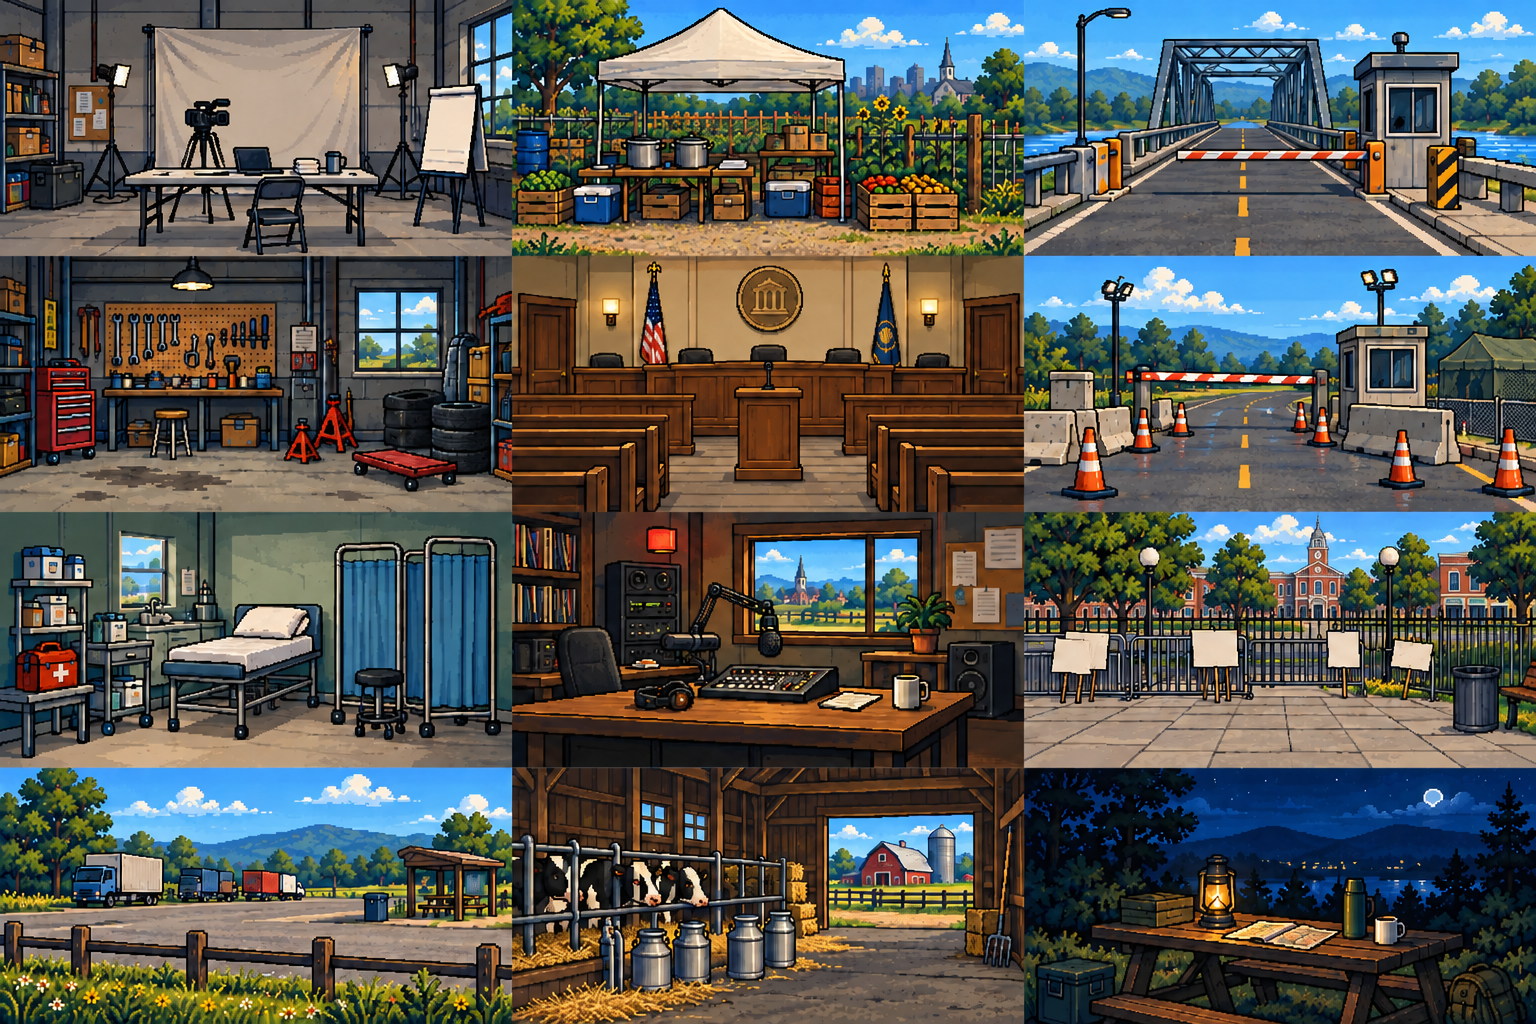
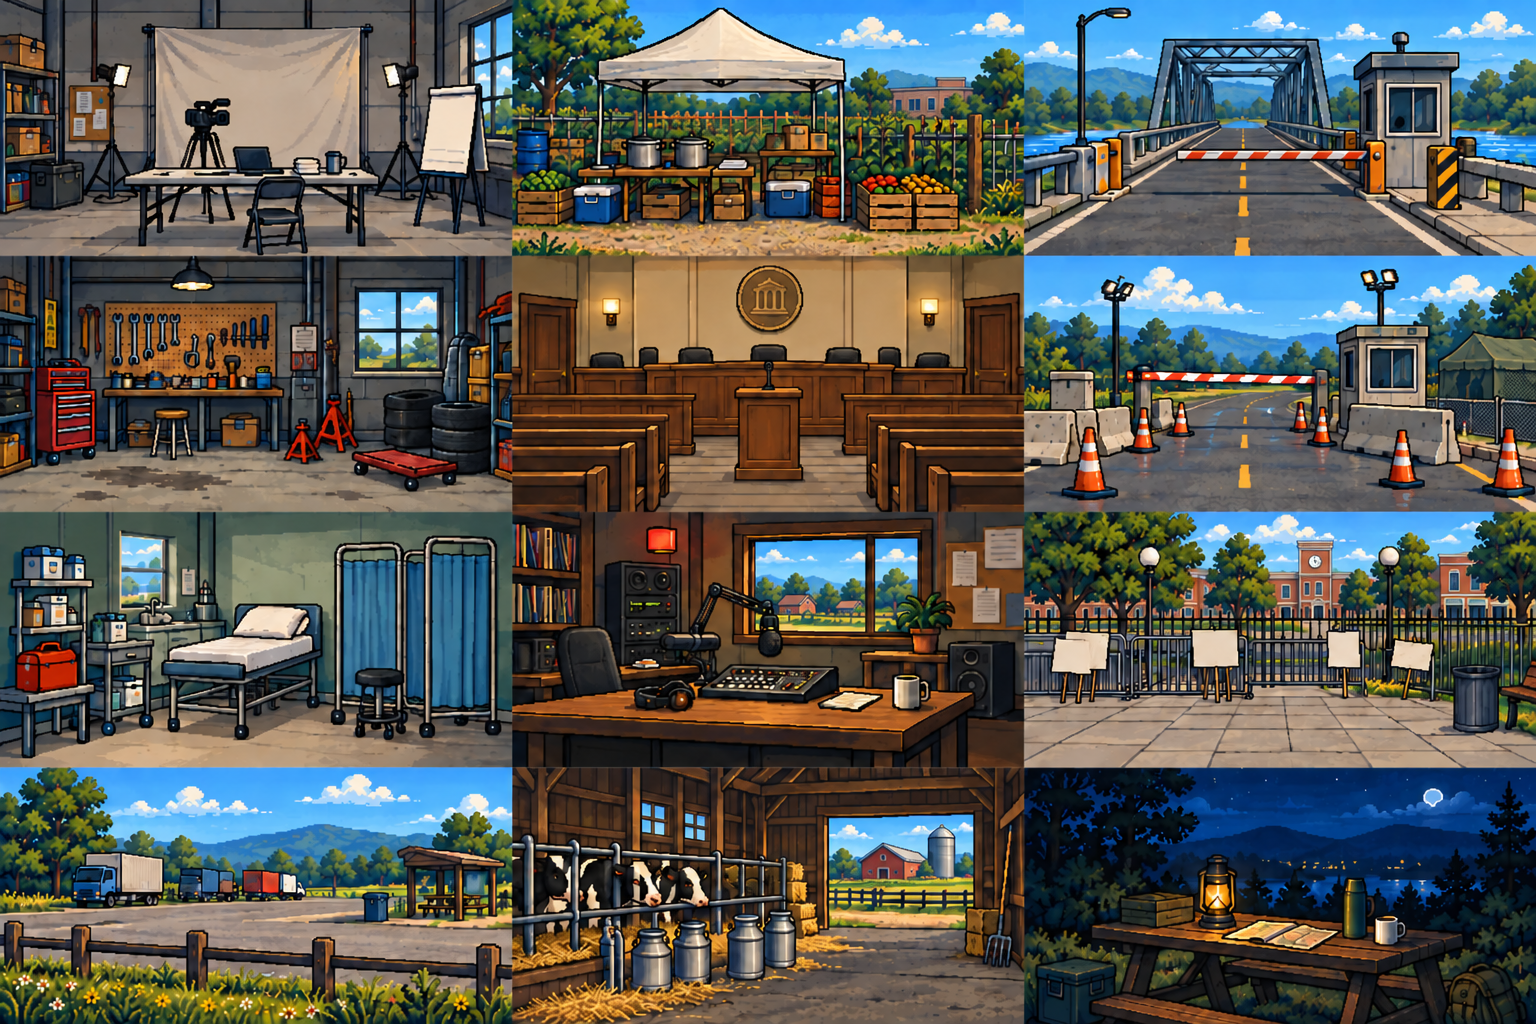
Restore corrected shared encounter atlas

diff --git a/dystrail-web/tests-e2e/scene-settings-recovery.spec.ts b/dystrail-web/tests-e2e/scene-settings-recovery.spec.ts
@@ -1,5 +1,6 @@
 import {test, expect} from '@playwright/test';
-import {baseline, waitForLaunch} from './helpers';
+import {baseline, importState, waitForLaunch} from './helpers';
+import {readFileSync} from 'node:fs';
 
 test('camp uses preserved symbol-free atlas online and offline', async ({page, context}, info) => {
   await page.setViewportSize({width:info.project.name === 'mobile' ? 390 : 1440,height:1000});
@@ -23,4 +24,31 @@ test('camp uses preserved symbol-free atlas online and offline', async ({page, c
   if(!(await scene.count())) await page.getByRole('button',{name:'Camp',exact:true}).click();
   await expect(scene).toBeVisible();
   expect(await page.evaluate(()=>document.documentElement.scrollWidth<=innerWidth)).toBe(true);
+});
+
+
+test('shared encounter scenes use the corrected retained atlas offline', async ({page,context}, info) => {
+  test.setTimeout(120000);
+  await page.setViewportSize({width:info.project.name==='mobile'?390:1440,height:1000});
+  await page.emulateMedia({reducedMotion:'reduce'});
+  const base=await baseline(page);base.seed=42;base.visual_content={edition:0,selections:{}};
+  const bank=JSON.parse(readFileSync('static/assets/data/game.json','utf8'));
+  const cases=[['classic_media_training',0],['classic_civic_potluck',1],['classic_bridge_crews',2],['classic_service_station',3],['town_hall_drift',4],['sat_straw_inspection',5],['clinic_triage',6],['classic_radio_phonebank',7],['classic_neighborhood_watch',8],['deep_rustbelt_convoy',9],['overnight_briefing',11]] as const;
+  for(const [id,cell] of cases) {
+    const state=structuredClone(base);state.current_encounter=bank.find((e:any)=>e.id===id);state.clock_minutes=cell===11?22*60:12*60;
+    await importState(page,state);
+    const scene=page.locator('.scene-atlas[data-atlas="encounter-settings-v2"]');
+    await expect(scene).toHaveAttribute('data-cell',String(cell));
+    await expect(scene.locator('image')).toHaveAttribute('href',/encounter-settings-v2.png$/);
+    expect(await page.evaluate(()=>document.documentElement.scrollWidth<=innerWidth)).toBe(true);
+    if([1,6,8].includes(cell)) await page.locator('.world-view').screenshot({path:info.outputPath(`corrected-encounter-${cell}.png`)});
+  }
+  await context.setOffline(true);await page.reload();await waitForLaunch(page);
+  const scene=page.locator('.scene-atlas[data-atlas="encounter-settings-v2"]');
+  await expect(scene).toHaveAttribute('data-cell','11');
+  const hash=await scene.locator('image').evaluate(async element=>{
+    const bytes=await(await fetch(element.getAttribute('href')!)).arrayBuffer();
+    return Array.from(new Uint8Array(await crypto.subtle.digest('SHA-256',bytes)),n=>n.toString(16).padStart(2,'0')).join('');
+  });
[1 lines of base64/hex data omitted]
 });

diff --git a/progress.md b/progress.md
@@ -514,3 +514,8 @@ September 14 — standing crew transparency repair:
 - Five selector tests passed. Build b968a81085fc350c0dcf includes141 offline assets. Four browser checks pass across desktop/mobile, all15 actions in C01/C03, exact stat effects, saved identity/outcomes, reload, Arabic320px and offline. C03A/B desktop scenes and native atlases inspected; outcome semantics match their distinct cells. Further composed outcome-frame review remains.
 - Confirmed shared encounter-settings-v2 currently hashes b82e560689c1379cedf49a04a7fabd057dca7efa5c847dcb7d1ad807f8f7ff64, differing from reviewed retained correction f68bceb4a4644feff2823bc903fe32e12e0f7f2e09c28c0d8bd290fa4f12837c (exec-f465d38d-fcb8-4870-84b7-145f71916622). Restoration and runtime verification next; no change in this checkpoint.
 - Zero new image attempts. Three of thirteen remain consumed. Held images still excluded. Full feature remains incomplete.
+
+## 2026-09-21 — corrected shared encounter atlas restored
+- Replaced stale encounter-settings-v2 with unchanged retained original exec-f465d38d-fcb8-4870-84b7-145f71916622, SHA256 f68bceb4a4644feff2823bc903fe32e12e0f7f2e09c28c0d8bd290fa4f12837c. Reviewed all12 cells: no visible religious symbols, clinic bag unmarked, street uses civic buildings. No generation or image editing.
+- Build f26020f7d8e2099037a5 contains141 assets/152.8MB. Focused browser checks passed on desktop and390px phone across all11 reachable shared-atlas cells, correct mapping and no overflow, plus reload and exact corrected bytes while offline. Mobile clinic and desktop civic-street captures visually inspected. Existing pixelated rendering already applies; no redundant CSS change.
+- This closes the known stale shared-atlas restoration gap, not the full-game visual/content audit. 36 mechanics-dependent records remain inactive. Next necessary production sheet is approved selected-satire-04, still zero attempts; inspect its current source directions before one attempt. Existing total remains3 of13, held panels never retried.
